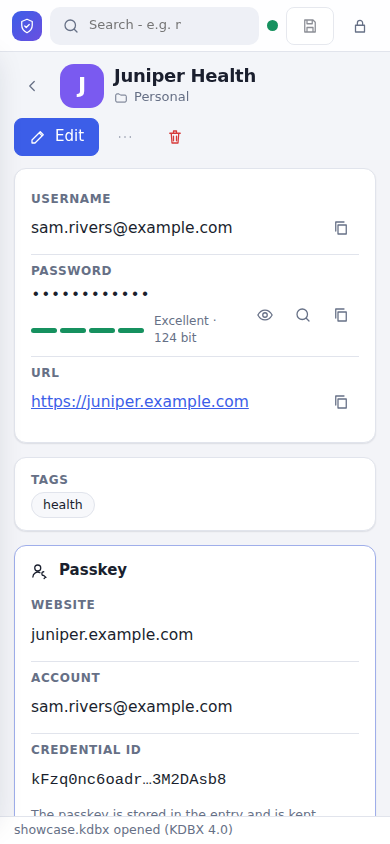
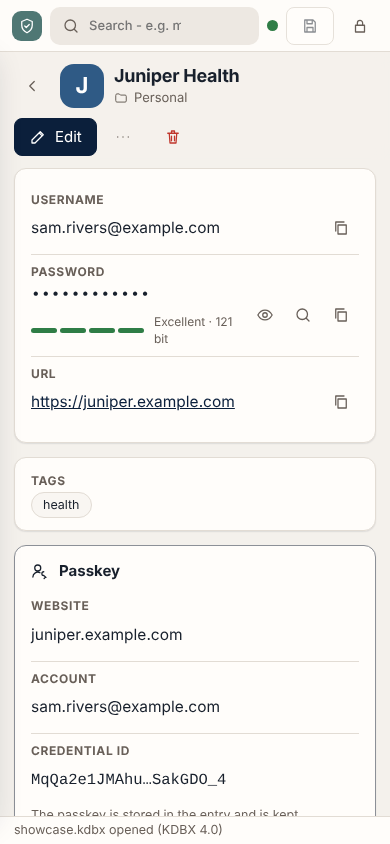
New colors: night blue and gold
The indigo-to-purple gradients are gone. The new palette pairs warm
linen with night blue: calm and readable by day, a quiet vault at night.

- Light mode: warm linen greys, text in night-blue ink, night-blue
  buttons.
- Dark mode: night blue with gold buttons and ivory text.
- In both: a sage logo tile, a gold TOTP ring (new --ring token) and a
  night-blue login side. Flat colors, no gradients.
- Entry avatars use earthy hues (sage, oxblood, slate, rust, olive,
  dark gold, ...), all readable with white letters.
- The round add button on phones uses the accent's own text color, so
  the plus stays readable in dark mode.
- Toasts, dialog backdrop and shadows follow the palette.

Text, buttons and status colors reach at least 4.6:1 contrast in both
modes. README screenshots regenerated with tools/shots.mjs.

Claude-Session: https://claude.ai/code/session_01GFSnoJyh6xR9Qrsdjghiba

diff --git a/src/keepassnc.css b/src/keepassnc.css
@@ -1,26 +1,26 @@
 /* KeePassNC 2026 - Design: ruhige Flaechen, ein Akzent, grosse Klickziele; Desktop zuerst (3 Spalten), darunter Tablet/Mobil.
    Strikte CSP: keine Inline-Styles - Farben/Abstaende nur ueber Klassen und CSS-Variablen. */
 :root {
-    --bg: #f3f4f8; --surface: #ffffff; --surface-2: #f7f8fb; --surface-3: #eef0f6; --border: #e1e4ec; --border-strong: #cdd2de;
-    --text: #1a1f2e; --muted: #667086; --accent: #3c5ee8; --accent-2: #6a4fe0; --accent-soft: #e8ecfd; --on-accent: #fff;
-    --ok: #16915f; --ok-soft: #e0f4ea; --warn: #b36a00; --warn-soft: #fff1d6; --bad: #d63a3a; --bad-soft: #fde4e4;
-    --shadow-1: 0 1px 2px rgb(20 28 50 / .06), 0 1px 1px rgb(20 28 50 / .04); --shadow-2: 0 8px 28px rgb(20 28 50 / .14), 0 2px 6px rgb(20 28 50 / .08);
+    --bg: #f4f1ec; --surface: #fffdfa; --surface-2: #f9f6f2; --surface-3: #ede8e2; --border: #e2dcd4; --border-strong: #cec6bb;
+    --text: #18202c; --muted: #685f58; --accent: #0b1f3b; --accent-2: #4f7774; --accent-soft: #e7e7e7; --on-accent: #fff; --on-accent-2: #fff; --ring: #a8893f;
+    --ok: #2f7d46; --ok-soft: #e2f0e5; --warn: #9d5a00; --warn-soft: #fbefd9; --bad: #c0362c; --bad-soft: #f9e3e0;
+    --shadow-1: 0 1px 2px rgb(11 31 59 / .06), 0 1px 1px rgb(11 31 59 / .04); --shadow-2: 0 8px 28px rgb(11 31 59 / .14), 0 2px 6px rgb(11 31 59 / .08);
     --radius: 12px; --radius-sm: 8px; --row-h: 60px; --topbar-h: 56px; --sidebar-w: 264px; --list-w: 368px;
     --font: Inter, system-ui, -apple-system, "Segoe UI", Roboto, "Helvetica Neue", Arial, sans-serif; --mono: ui-monospace, "SF Mono", "Cascadia Mono", Consolas, "Liberation Mono", monospace;
     color-scheme: light;
 }
 @media (prefers-color-scheme: dark) {
     :root:not([data-theme="light"]) {
-        --bg: #0e111a; --surface: #161a25; --surface-2: #1a1f2c; --surface-3: #212736; --border: #272d3d; --border-strong: #363e54;
-        --text: #e7eaf3; --muted: #9099b0; --accent: #7c93ff; --accent-2: #a58bff; --accent-soft: #232b4d; --on-accent: #0e111a;
-        --ok: #4cc38a; --ok-soft: #14301f; --warn: #f0b34d; --warn-soft: #3a2b0e; --bad: #ff7a7a; --bad-soft: #3c1a1a;
+        --bg: #0b1422; --surface: #111c2d; --surface-2: #152134; --surface-3: #1b293e; --border: #23324a; --border-strong: #33445e;
+        --text: #ece6da; --muted: #a59d8e; --accent: #c4a664; --accent-2: #4f7774; --accent-soft: #2c3135; --on-accent: #0b1422; --on-accent-2: #fff; --ring: #c4a664;
+        --ok: #5cc38d; --ok-soft: #14291f; --warn: #e9b04f; --warn-soft: #33290f; --bad: #f07e78; --bad-soft: #3a1c22;
         --shadow-1: 0 1px 2px rgb(0 0 0 / .4); --shadow-2: 0 10px 34px rgb(0 0 0 / .55); color-scheme: dark;
     }
 }
 :root[data-theme="dark"] {
-    --bg: #0e111a; --surface: #161a25; --surface-2: #1a1f2c; --surface-3: #212736; --border: #272d3d; --border-strong: #363e54;
-    --text: #e7eaf3; --muted: #9099b0; --accent: #7c93ff; --accent-2: #a58bff; --accent-soft: #232b4d; --on-accent: #0e111a;
-    --ok: #4cc38a; --ok-soft: #14301f; --warn: #f0b34d; --warn-soft: #3a2b0e; --bad: #ff7a7a; --bad-soft: #3c1a1a;
+    --bg: #0b1422; --surface: #111c2d; --surface-2: #152134; --surface-3: #1b293e; --border: #23324a; --border-strong: #33445e;
+    --text: #ece6da; --muted: #a59d8e; --accent: #c4a664; --accent-2: #4f7774; --accent-soft: #2c3135; --on-accent: #0b1422; --on-accent-2: #fff; --ring: #c4a664;
+    --ok: #5cc38d; --ok-soft: #14291f; --warn: #e9b04f; --warn-soft: #33290f; --bad: #f07e78; --bad-soft: #3a1c22;
     --shadow-1: 0 1px 2px rgb(0 0 0 / .4); --shadow-2: 0 10px 34px rgb(0 0 0 / .55); color-scheme: dark;
 }
 :root[data-density="compact"] { --row-h: 46px; }
@@ -117,9 +117,9 @@ button.link { background: none; border: 0; padding: 0; color: var(--accent); fon
 .avatar { display: inline-grid; place-items: center; width: 36px; height: 36px; border-radius: 10px; flex: none; font-weight: 700; font-size: 15px; color: #fff; background: var(--accent); }
 .avatar.lg { width: 52px; height: 52px; border-radius: 14px; font-size: 22px; }
 .avatar.img { background: var(--surface-3); padding: 5px; }
-.avatar.hue-0 { background: #4f6df0; } .avatar.hue-1 { background: #7a5af0; } .avatar.hue-2 { background: #c04fd8; } .avatar.hue-3 { background: #e04f86; }
-.avatar.hue-4 { background: #e2563f; } .avatar.hue-5 { background: #d87d1f; } .avatar.hue-6 { background: #b59a14; } .avatar.hue-7 { background: #5aa51f; }
-.avatar.hue-8 { background: #1f9f62; } .avatar.hue-9 { background: #1c9c9c; } .avatar.hue-10 { background: #2490d8; } .avatar.hue-11 { background: #5b6b86; }
+.avatar.hue-0 { background: #4f7774; } .avatar.hue-1 { background: #2f5a85; } .avatar.hue-2 { background: #4a6a8a; } .avatar.hue-3 { background: #8b3a2f; }
+.avatar.hue-4 { background: #a4553a; } .avatar.hue-5 { background: #8a6a2e; } .avatar.hue-6 { background: #6f7a3a; } .avatar.hue-7 { background: #3f7a52; }
+.avatar.hue-8 { background: #2f6f6c; } .avatar.hue-9 { background: #3a5470; } .avatar.hue-10 { background: #7a4a5e; } .avatar.hue-11 { background: #6b625a; }
 
 .card { background: var(--surface); border: 1px solid var(--border); border-radius: var(--radius); padding: 14px 16px; box-shadow: var(--shadow-1); }
 .card.flat { box-shadow: none; background: var(--surface-2); }
@@ -132,12 +132,12 @@ details > summary.card-title { cursor: pointer; list-style: none; margin: 0; } d
 
 /* ---------- Anmeldung ---------- */
 .login { min-height: 100vh; display: grid; grid-template-columns: minmax(0, 1.05fr) minmax(420px, .95fr); }
-.login-hero { position: relative; display: flex; flex-direction: column; justify-content: center; gap: 18px; padding: 64px clamp(32px, 6vw, 96px); color: #fff; background: radial-gradient(1200px 600px at 10% 0%, #6a4fe0 0%, transparent 60%), radial-gradient(900px 600px at 100% 100%, #2f6fed 0%, transparent 55%), #1d2350; overflow: hidden; }
+.login-hero { position: relative; display: flex; flex-direction: column; justify-content: center; gap: 18px; padding: 64px clamp(32px, 6vw, 96px); color: #fff; background: radial-gradient(1200px 600px at 0% 0%, #1a3560 0%, transparent 60%), #0b1f3b; overflow: hidden; }
 .login-hero h1 { font-size: clamp(34px, 4.4vw, 56px); letter-spacing: -.02em; line-height: 1.05; }
 .login-hero .tagline { font-size: clamp(16px, 1.5vw, 20px); opacity: .88; max-width: 34ch; }
 .brand-mark { display: inline-grid; place-items: center; width: 64px; height: 64px; border-radius: 18px; background: rgb(255 255 255 / .16); border: 1px solid rgb(255 255 255 / .28); backdrop-filter: blur(6px); }
 .brand-mark .icon { width: 32px; height: 32px; }
-.brand-mark.small { width: 30px; height: 30px; border-radius: 9px; background: linear-gradient(135deg, var(--accent), var(--accent-2)); border: 0; color: #fff; } .brand-mark.small .icon { width: 18px; height: 18px; }
+.brand-mark.small { width: 30px; height: 30px; border-radius: 9px; background: var(--accent-2); border: 0; color: var(--on-accent-2); } .brand-mark.small .icon { width: 18px; height: 18px; }
 .trust { list-style: none; margin: 18px 0 0; padding: 0; display: grid; gap: 12px; max-width: 44ch; }
 .trust li { display: flex; gap: 12px; align-items: flex-start; font-size: 14.5px; opacity: .92; } .trust .icon { margin-top: 2px; }
 .login-card { display: flex; flex-direction: column; justify-content: center; gap: 22px; padding: 48px clamp(24px, 5vw, 80px); background: var(--bg); }
@@ -215,7 +215,7 @@ details > summary.card-title { cursor: pointer; list-style: none; margin: 0; } d
 .strength.s1 .bars i:nth-child(-n+1) { background: var(--bad); } .strength.s2 .bars i:nth-child(-n+2) { background: var(--warn); } .strength.s3 .bars i:nth-child(-n+3) { background: var(--ok); } .strength.s4 .bars i { background: var(--ok); }
 .totp-box { display: flex; align-items: center; gap: 14px; } .totp { font-family: var(--mono); font-size: 28px; font-weight: 650; letter-spacing: .12em; }
 .ring-wrap { position: relative; width: 38px; height: 38px; display: inline-grid; place-items: center; } .ring { position: absolute; inset: 0; width: 100%; height: 100%; transform: rotate(-90deg); }
-.ring-bg { stroke: var(--surface-3); } .ring-fg { stroke: var(--accent); transition: stroke-dashoffset .9s linear; } .ring.low .ring-fg { stroke: var(--bad); }
+.ring-bg { stroke: var(--surface-3); } .ring-fg { stroke: var(--ring); transition: stroke-dashoffset .9s linear; } .ring.low .ring-fg { stroke: var(--bad); }
 .ring-num { font-size: 12px; font-weight: 700; font-variant-numeric: tabular-nums; }
 .att-row, .hist-row { display: flex; align-items: center; gap: 10px; padding: 7px 0; } .att-row + .att-row, .hist-row + .hist-row { border-top: 1px solid var(--border); }
 .hist-row { font-size: 13.5px; flex-wrap: wrap; } .row-end { display: flex; justify-content: flex-end; padding-top: 8px; }
@@ -230,7 +230,7 @@ details > summary.card-title { cursor: pointer; list-style: none; margin: 0; } d
 .fab { display: none; }
 
 /* ---------- Dialoge, Menues, Hinweise ---------- */
-.backdrop { position: fixed; inset: 0; z-index: 50; display: grid; place-items: center; padding: 16px; background: rgb(10 14 26 / .5); backdrop-filter: blur(3px); animation: fade .12s ease-out; }
+.backdrop { position: fixed; inset: 0; z-index: 50; display: grid; place-items: center; padding: 16px; background: rgb(8 15 28 / .5); backdrop-filter: blur(3px); animation: fade .12s ease-out; }
 .modal { width: 100%; max-height: min(90vh, 900px); display: flex; flex-direction: column; background: var(--surface); border: 1px solid var(--border); border-radius: 16px; box-shadow: var(--shadow-2); animation: pop .14s ease-out; }
 .modal.sm { max-width: 420px; } .modal.md { max-width: 560px; } .modal.lg { max-width: 760px; }
 .modal-head { display: flex; align-items: center; justify-content: space-between; gap: 10px; padding: 14px 14px 6px 20px; } .modal-title { font-size: 18px; letter-spacing: -.01em; }
@@ -241,9 +241,9 @@ details > summary.card-title { cursor: pointer; list-style: none; margin: 0; } d
 .menu-item { display: flex; align-items: center; gap: 10px; width: 100%; padding: 7px 10px; border: 0; background: transparent; border-radius: 8px; text-align: left; font-size: 14px; } .menu-item:hover:not(:disabled), .menu-item:focus-visible { background: var(--surface-3); } .menu-item.danger { color: var(--bad); }
 .menu-sep { height: 1px; margin: 5px 4px; background: var(--border); }
 .toasts { position: fixed; z-index: 70; right: 16px; bottom: 44px; display: flex; flex-direction: column; gap: 8px; max-width: min(420px, calc(100vw - 32px)); }
-.toast { display: flex; align-items: center; gap: 12px; padding: 10px 14px; border-radius: 12px; background: #1e2433; color: #f2f4fa; box-shadow: var(--shadow-2); font-size: 14px; animation: pop .16s ease-out; }
+.toast { display: flex; align-items: center; gap: 12px; padding: 10px 14px; border-radius: 12px; background: #14213a; color: #f1ece2; box-shadow: var(--shadow-2); font-size: 14px; animation: pop .16s ease-out; }
 .toast.warn { background: #6e4a0a; } .toast.error { background: #8e2323; }
-.toast-action { margin-left: auto; border: 0; background: transparent; color: #aab8ff; font-weight: 700; padding: 2px 6px; }
+.toast-action { margin-left: auto; border: 0; background: transparent; color: #d9bd7a; font-weight: 700; padding: 2px 6px; }
 
 /* Generator / Berichte / Palette */
 .gen-top { display: flex; gap: 8px; align-items: stretch; }
@@ -273,7 +273,7 @@ details > summary.card-title { cursor: pointer; list-style: none; margin: 0; } d
     .nav-tools { display: flex; }
     .sidebar { position: absolute; z-index: 20; left: 0; top: 0; bottom: 0; width: 290px; transform: translateX(-102%); transition: transform .2s ease; box-shadow: var(--shadow-2); }
     .shell[data-drawer="1"] .sidebar { transform: none; }
-    .shell[data-drawer="1"] .scrim { display: block; position: absolute; inset: 0; z-index: 15; background: rgb(10 14 26 / .45); }
+    .shell[data-drawer="1"] .scrim { display: block; position: absolute; inset: 0; z-index: 15; background: rgb(8 15 28 / .45); }
     .hide-narrow, .topbar .kbd, .searchbox kbd { display: none !important; }
     .file-name { display: none; }
 }
@@ -295,7 +295,7 @@ details > summary.card-title { cursor: pointer; list-style: none; margin: 0; } d
     .searchbox { margin-left: 0; flex: 1 1 auto; }
     .topbar .spacer { display: none; }
     .topbar #new-btn { display: none; }
-    .fab { position: fixed; z-index: 10; right: 18px; bottom: 44px; width: 56px; height: 56px; border-radius: 18px; border: 0; background: linear-gradient(135deg, var(--accent), var(--accent-2)); color: #fff; box-shadow: var(--shadow-2); display: grid; place-items: center; }
+    .fab { position: fixed; z-index: 10; right: 18px; bottom: 44px; width: 56px; height: 56px; border-radius: 18px; border: 0; background: var(--accent); color: var(--on-accent); box-shadow: var(--shadow-2); display: grid; place-items: center; }
     .shell[data-view="detail"] .fab { display: none; } .fab .icon { width: 26px; height: 26px; }
     .detail-head { padding: 12px 14px 4px; gap: 10px; } .detail-body { padding: 8px 14px 90px; } .avatar.lg { width: 44px; height: 44px; }
     .dh-text h2 { font-size: 18px; }

diff --git a/nextcloud-app/keepassnc/CHANGELOG.md b/nextcloud-app/keepassnc/CHANGELOG.md
@@ -2,6 +2,10 @@
 
 Format based on [Keep a Changelog](https://keepachangelog.com/en/1.1.0/).
 
+## [Unreleased]
+### Changed
+- New colors. Night blue and gold instead of the indigo-purple gradients: warm linen greys and night-blue buttons in light mode, a night-blue dark mode with gold buttons, a sage logo tile. Contrast checked for text and buttons in both.
+
 ## [0.6.0] - 2026-10-12
 ### Added
 - Steam Guard codes. Entries with `encoder=steam` (KeePassXC) or the old `30;S` setting now show the 5-character Steam code instead of six digits that Steam won't take.
